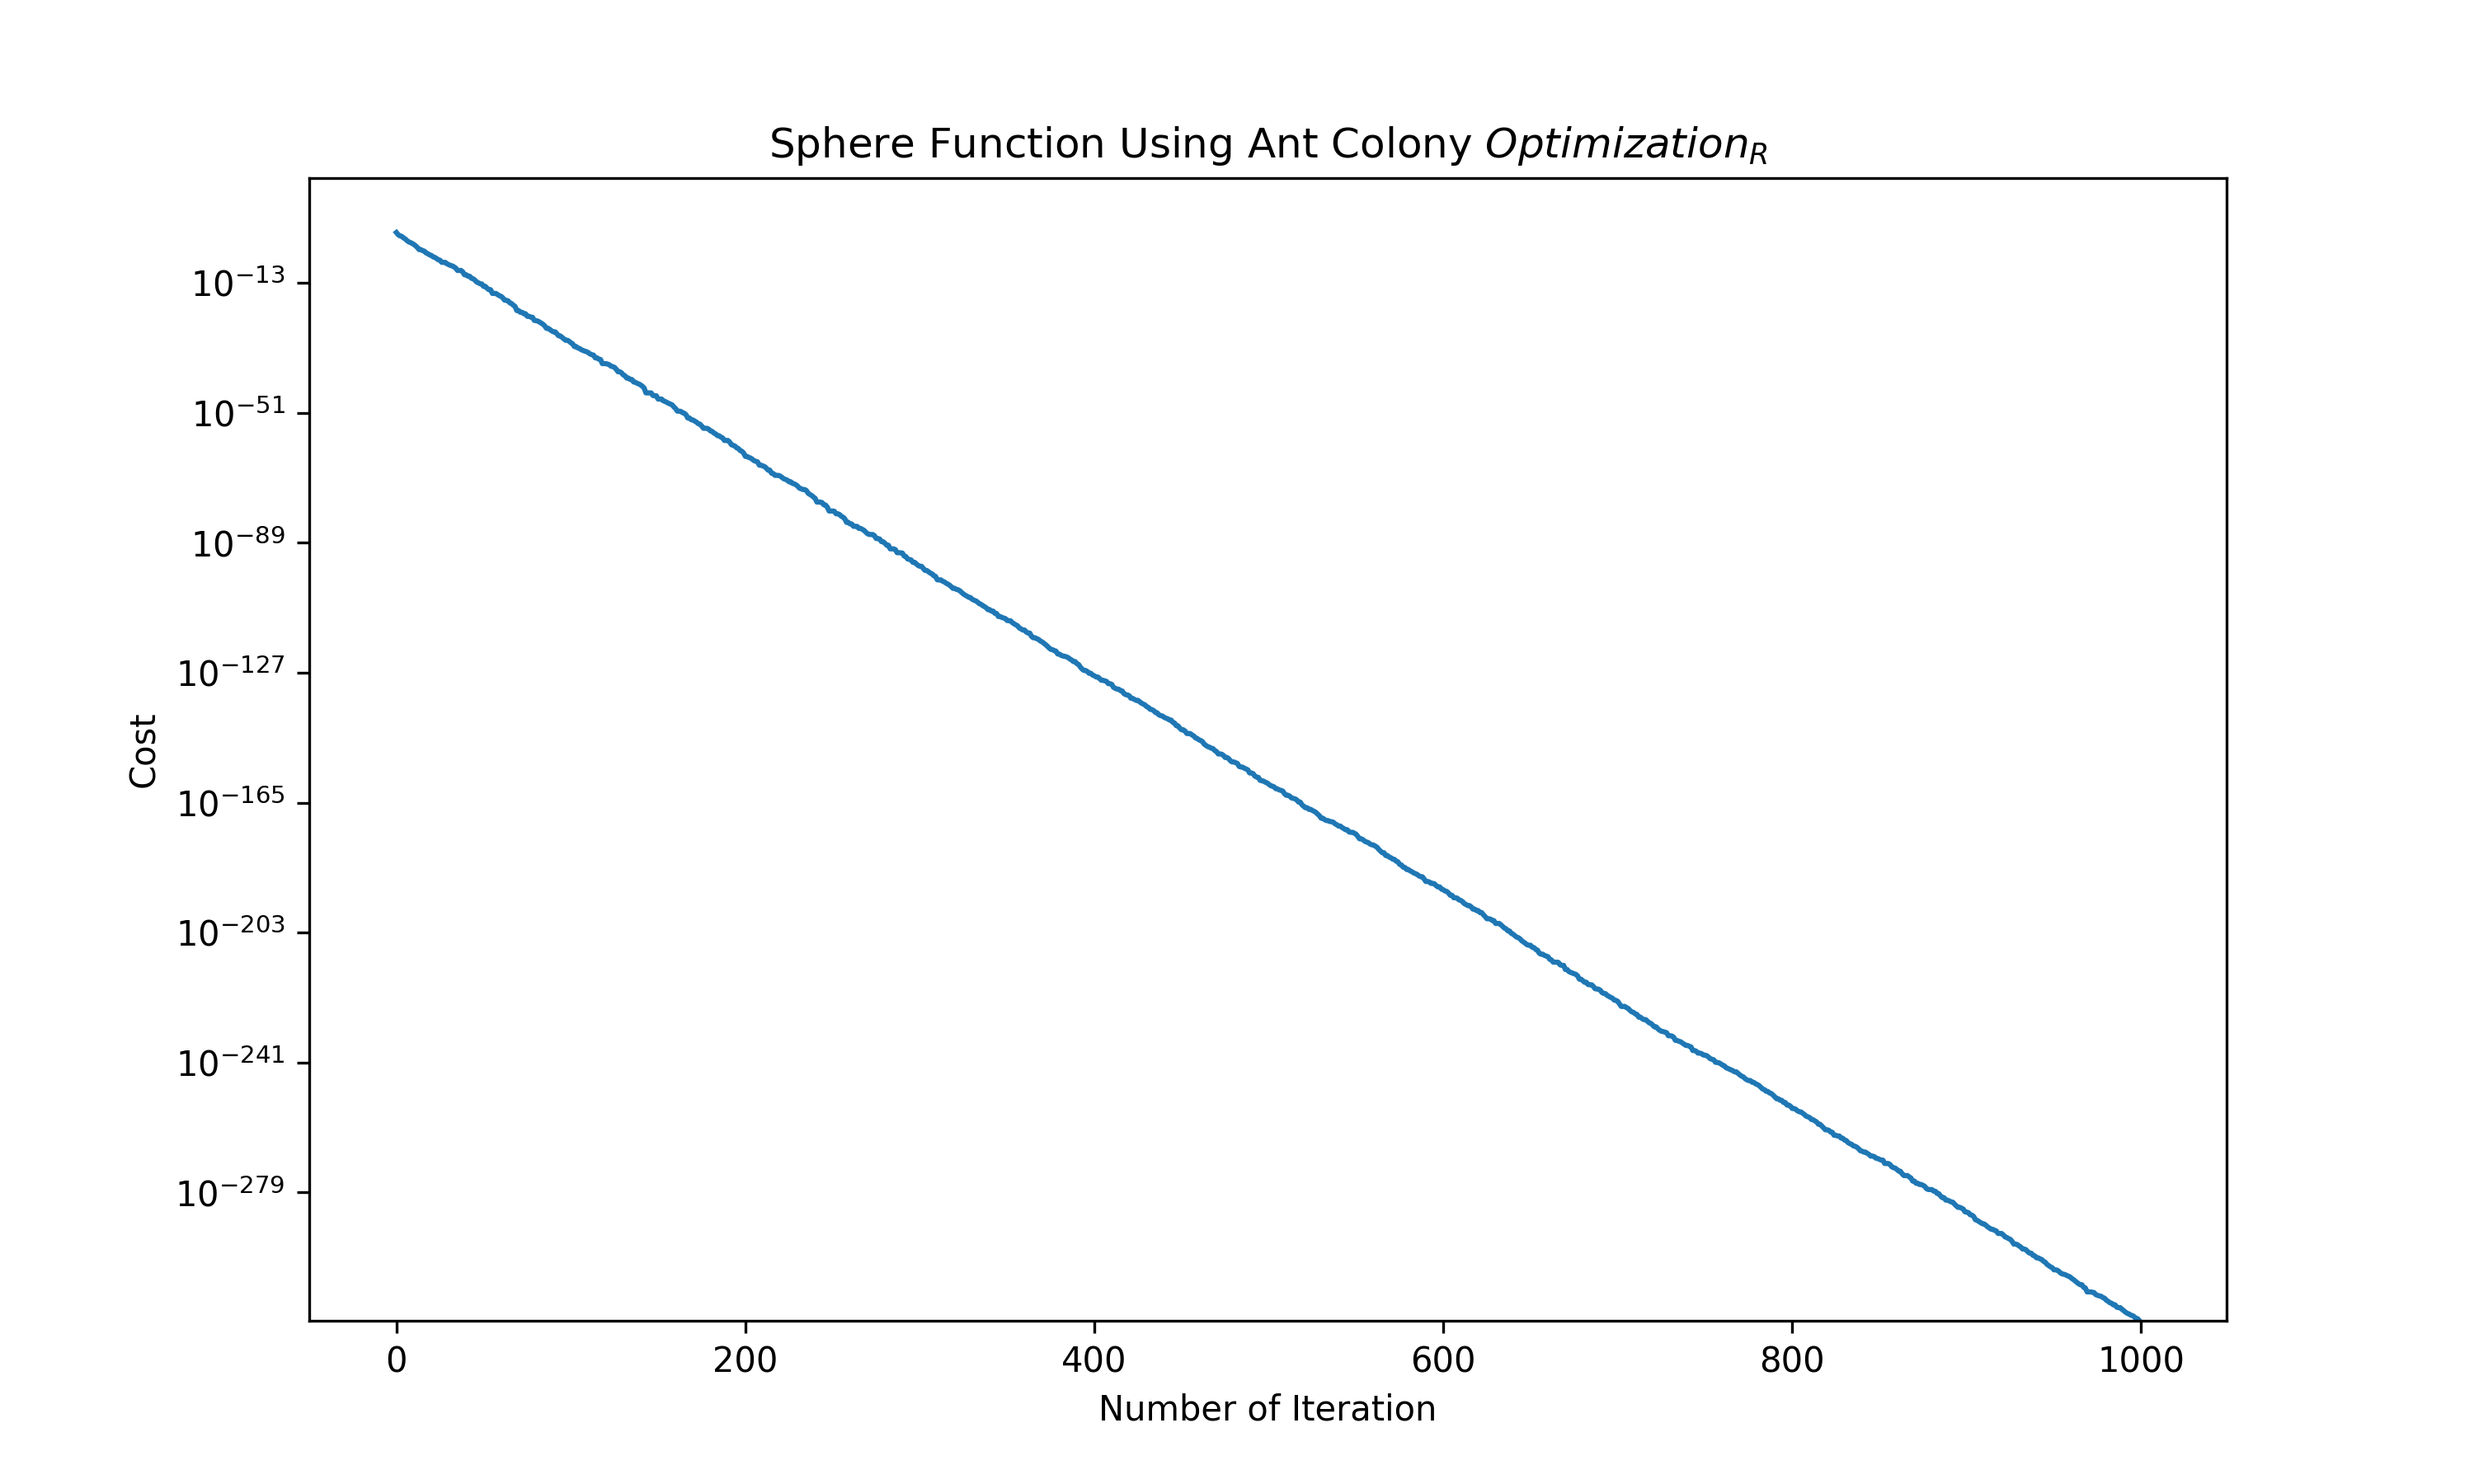
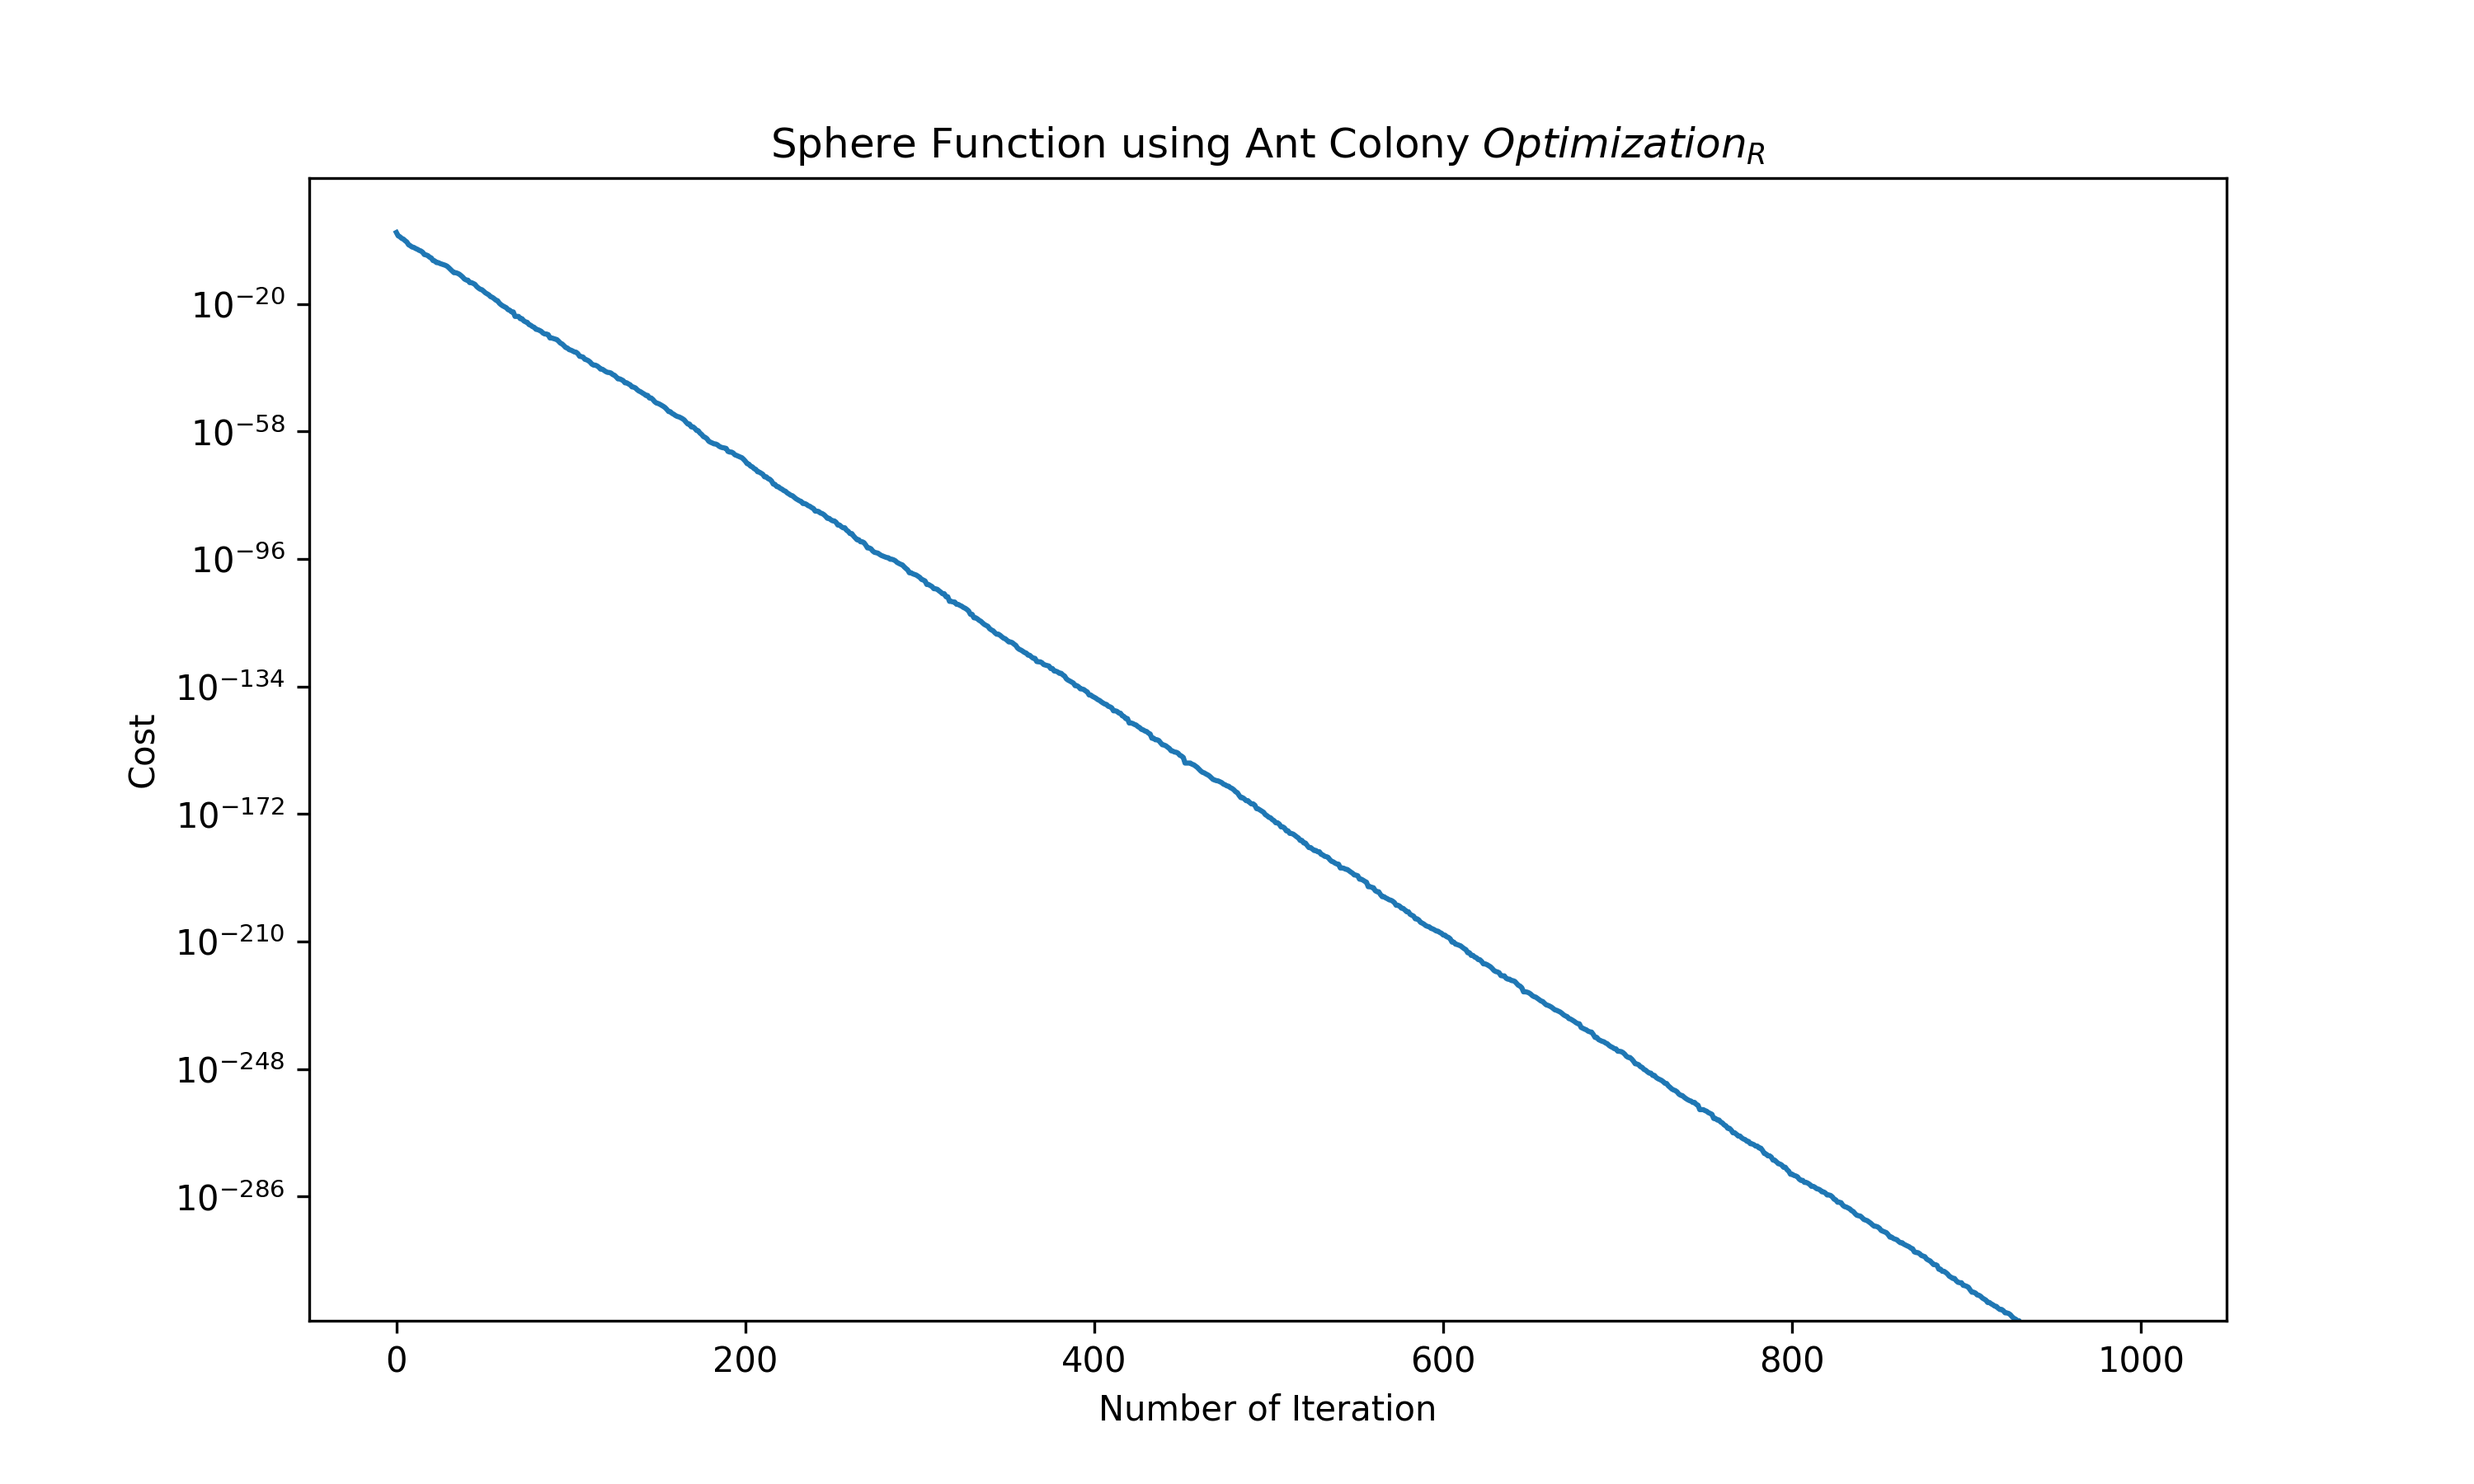
ACOR finished.

diff --git a/sphere/ant_colony_real.py b/sphere/ant_colony_real.py
@@ -1,0 +1,162 @@
+import matplotlib.pyplot as plt
+import numpy as np
+import copy
+import time
+import os
+
+
+class ACOR:
+
+    class _Ant:
+
+        def __init__(self):
+
+            self.position = None
+            self.cost = None
+
+    def __init__(self,
+                 cost_function,
+                 min_range_of_variables,
+                 max_range_of_variables,
+                 number_of_variables,
+                 max_iteration,
+                 number_of_ants,
+                 number_of_samples,
+                 intensification_factor,
+                 deviation_factor):
+
+        self._cost_function = cost_function
+        self._min_range_of_variables = min_range_of_variables
+        self._max_range_of_variables = max_range_of_variables
+        self._number_of_variables = number_of_variables
+        self._max_iteration = max_iteration
+        self._number_of_ants = number_of_ants
+        self._number_of_samples = number_of_samples
+        self._int_factor = intensification_factor
+        self._dev_rate = deviation_factor
+        self._ants = None
+        self._new_ants = None
+        self._best_cost = []
+        self._mean = None
+        self._std = None
+        self._probs = None
+
+    @staticmethod
+    def _roulette_wheel_selection(probs):
+
+        random_number = np.random.rand()
+
+        probs_cumsum = np.cumsum(probs)
+
+        return int(np.argwhere(random_number < probs_cumsum)[0][0])
+
+    def _initialize_evaluation_ants(self):
+
+        ants = [self._Ant() for _ in range(self._number_of_ants)]
+
+        for i in range(self._number_of_ants):
+
+            ants[i].position = np.random.uniform(self._min_range_of_variables,
+                                                 self._max_range_of_variables,
+                                                 (1, self._number_of_variables))
+
+            ants[i].cost = self._cost_function(ants[i].position)
+
+        return ants
+
+    @staticmethod
+    def _sort_ants(ants):
+
+        ants_cost_argsort = [int(i) for i in np.argsort([ants[j].cost for j in range(len(ants))])]
+
+        sorted_ants = [ants[i] for i in ants_cost_argsort]
+
+        return sorted_ants
+
+    def _calc_mean(self):
+
+        mean = np.reshape([self._ants[i].position for i in range(self._number_of_ants)],
+                          (self._number_of_ants, self._number_of_variables))
+
+        return mean
+
+    def _calc_std(self):
+
+        std = np.zeros_like(self._mean)
+
+        for i in range(self._number_of_ants):
+
+            for j in range(self._number_of_ants):
+
+                std[i, :] += np.abs(self._mean[i, :] - self._mean[j, :])
+
+        std /= (self._number_of_ants - 1)
+        std *= self._dev_rate
+
+        return std
+
+    def _calc_prob(self):
+
+        weights = (1 / (np.sqrt(2 * np.pi) * self._int_factor * self._number_of_ants)) * \
+            np.exp((-1 / 2) * np.square(np.arange(0, self._number_of_ants) / self._int_factor * self._number_of_ants))
+
+        weights /= np.sum(weights)
+
+        return weights
+
+    def _select_samples(self):
+
+        samples = [self._Ant() for _ in range(self._number_of_samples)]
+
+        for i in range(self._number_of_samples):
+
+            samples[i].position = np.zeros((1, self._number_of_variables))
+
+            for k in range(self._number_of_variables):
+
+                kernel = self._roulette_wheel_selection(self._probs)
+
+                samples[i].position[0, k] = self._mean[kernel, k] + self._std[kernel, k] * np.random.randn()
+
+            samples[i].cost = self._cost_function(samples[i].position)
+
+        return samples
+
+    def run(self):
+
+        tic = time.time()
+
+        self._ants = self._initialize_evaluation_ants()
+
+        self._ants = self._sort_ants(self._ants)
+
+        self._probs = self._calc_prob()
+
+        for iter_main in range(self._max_iteration):
+
+            self._mean = self._calc_mean()
+
+            self._std = self._calc_std()
+
+            self._new_ants = self._select_samples()
+
+            self._ants.extend(self._new_ants)
+
+            self._ants = self._sort_ants(self._ants)
+
+            self._ants = self._ants[:self._number_of_ants]
+
+            self._best_cost.append(self._ants[0].cost)
+
+        toc = time.time()
+
+        os.makedirs("./figures", exist_ok=True)
+
+        plt.figure(dpi=300, figsize=(10, 6))
+        plt.semilogy(range(self._max_iteration), self._best_cost)
+        plt.xlabel("Number of Iteration")
+        plt.ylabel("Cost")
+        plt.title(r"Sphere Function using Ant Colony $Optimization_{R}$")
+        plt.savefig("./figures/cost_function.png")
+
+        return self._ants[0], toc - tic

diff --git a/sphere/main.py b/sphere/main.py
@@ -1,24 +1,20 @@
 from ant_colony_optimization.sphere.problem import cost_function
-from ant_colony_optimization.sphere.ant_colony import ACOR
+from ant_colony_optimization.sphere.ant_colony_real import ACOR
 
 
 def main():
 
-
     cost_func = cost_function
 
-    type_number_of_variables = {"real1D": [5]}
-
     solution_method = ACOR(cost_function=cost_func,
-                           type_number_of_variables=type_number_of_variables,
                            min_range_of_variables=-10,
                            max_range_of_variables=10,
+                           number_of_variables=5,
                            max_iteration=1000,
-                           number_of_ants=10,
-                           number_of_new_samples=50,
+                           number_of_ants=20,
+                           number_of_samples=50,
                            intensification_factor=0.5,
-                           deviation_rate=1,
-                           plot_solution=True)
+                           deviation_factor=1)
 
     solution_best, run_time = solution_method.run()
 

diff --git a/sphere/problem.py b/sphere/problem.py
@@ -3,6 +3,4 @@ import numpy as np
 
 def cost_function(x):
 
-    x = x["real1D"][0]
-
     return float(np.sum(np.square(x)))
